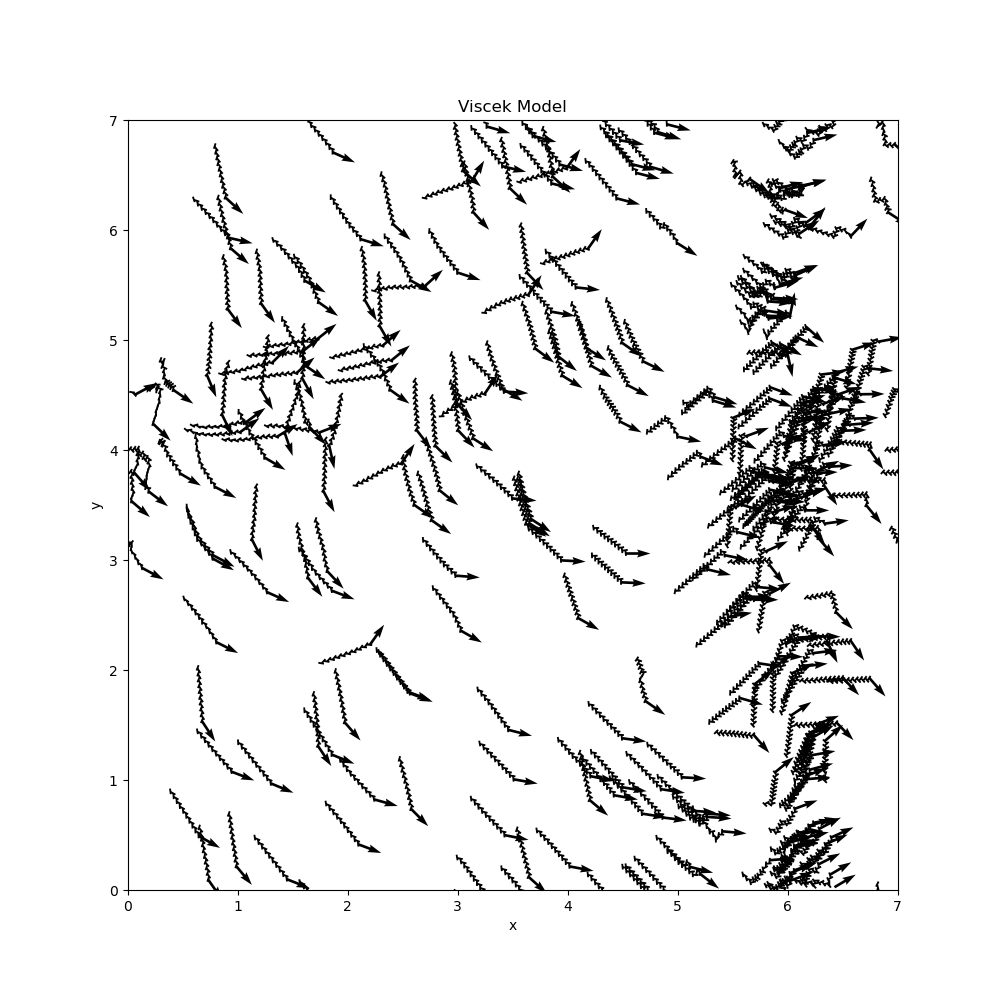
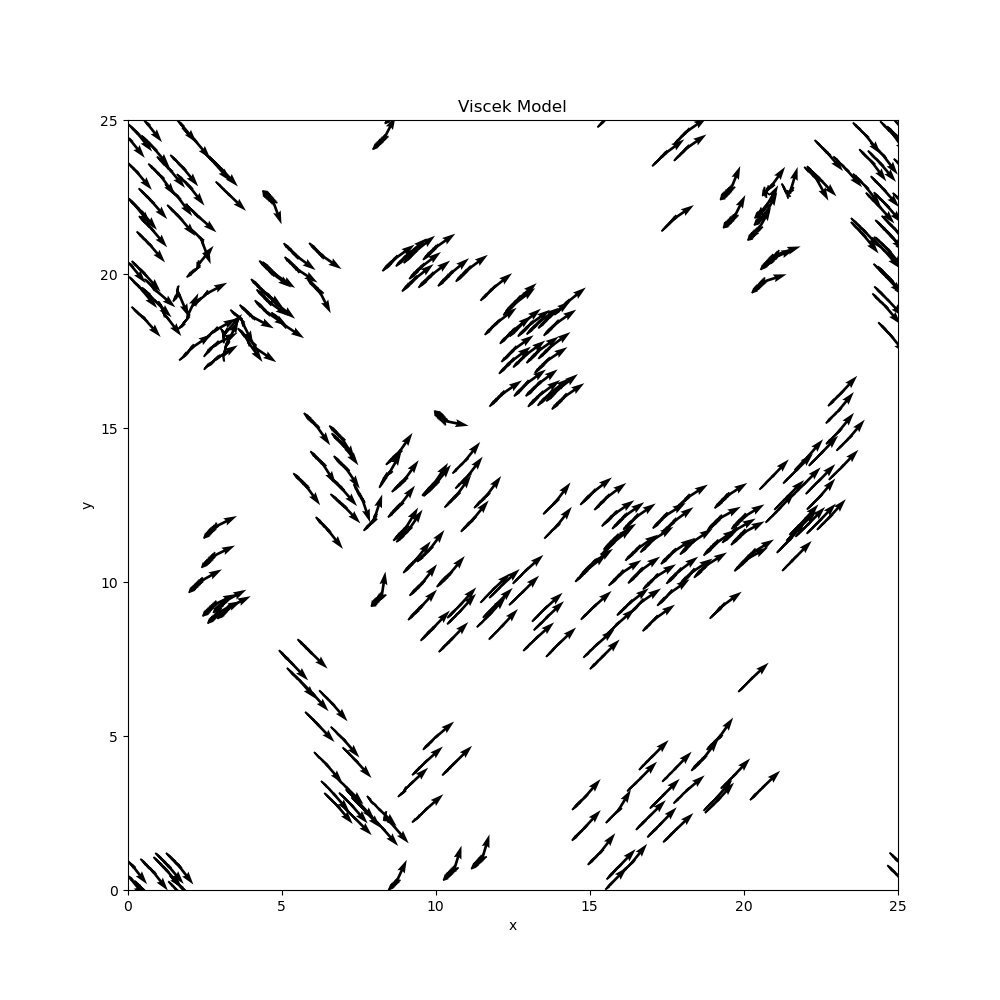
updates

diff --git a/vicsek.py b/vicsek.py
@@ -94,7 +94,7 @@ param_list = np.loadtxt('params.txt', delimiter=',')
 def vel(i):
     param = param_list[i]
     data = compute(*param)
-    np.save(f'./data/viscek_n={param[6]:0,.1f}N={int(param[0])}L={int(param[2])}.npy', data)
+    #np.save(f'./data/viscek_n={param[6]:0,.1f}N={int(param[0])}L={int(param[2])}.npy', data)
     Vx = np.cos(data[2, :, :])
     Vy = np.sin(data[2, :, :])
     V = np.stack((Vx, Vy), axis=0)

diff --git a/param_generator.py b/param_generator.py
@@ -5,15 +5,15 @@ N = 1
 v = 0.03
 L = 1
 dt = 1
-t_max = 100
+t_max = 200
 R = 1
 eta = 3
 seed = 0
 
-n = 250
+n = 200
 params = np.zeros((n, 8))
 for i in range(n):
-    params[i, 0] = 10**(i//50 + 1)
+    params[i, 0] = 10**(i//50 + 2)
     params[i, 1] = v
     params[i, 2] = L
     params[i, 3] = dt

diff --git a/ploter.py b/ploter.py
@@ -8,8 +8,8 @@ import matplotlib.pyplot as plt
 import numpy as np
 
 N = 300
-n = 2.0
-L = 7
+n = 0.1
+L = 25
 data = np.load(f'./data/viscek_n={n}N={N}L={L}.npy')
 print(data.shape)
 X = data[0]
